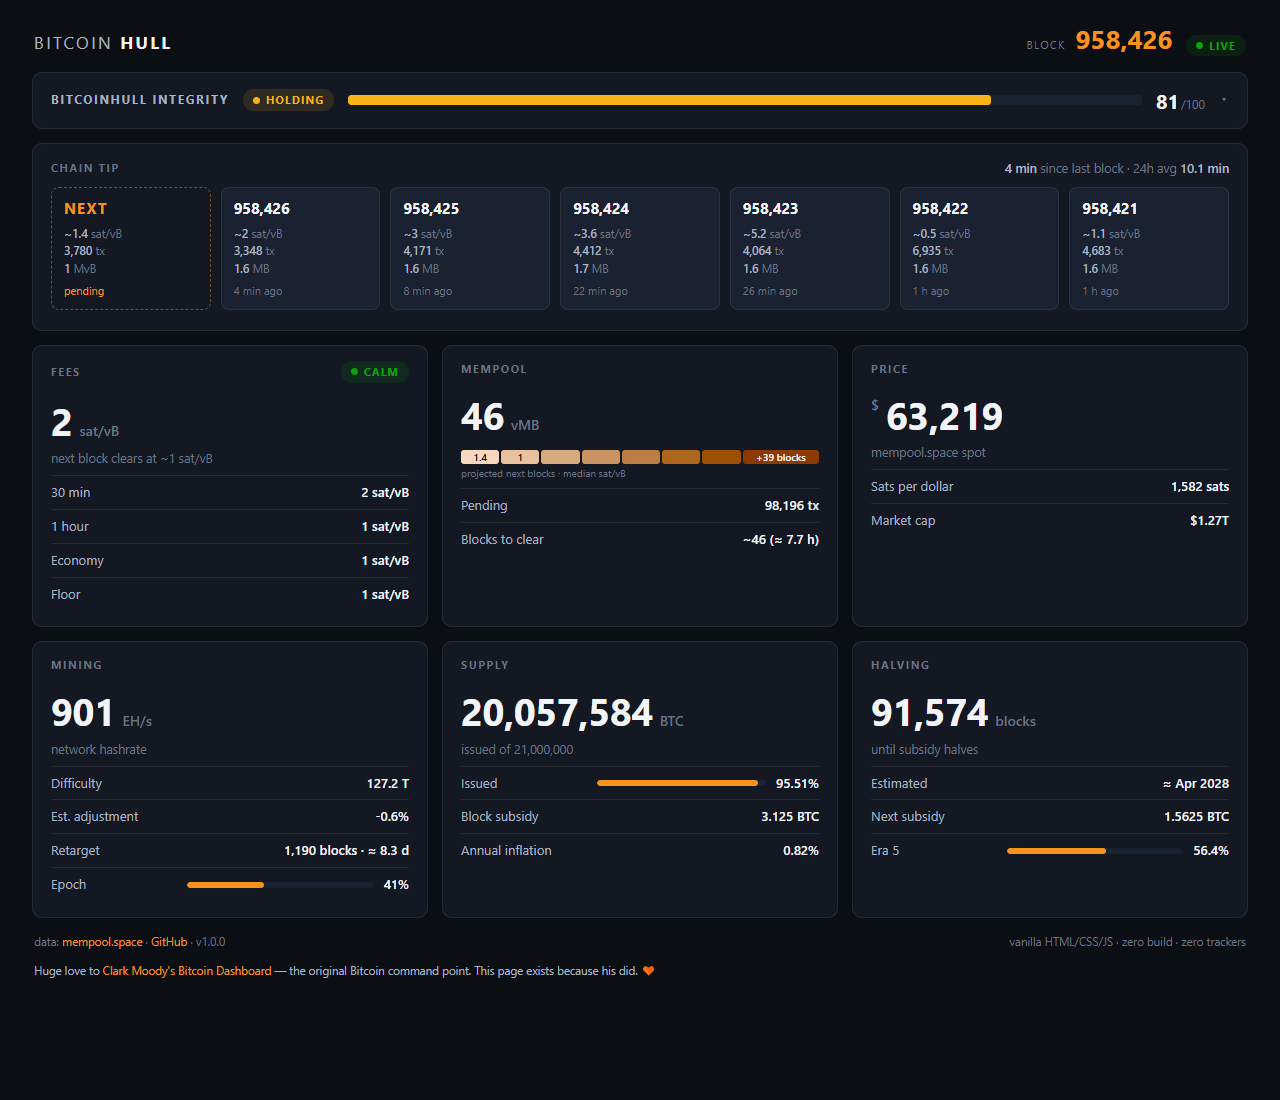
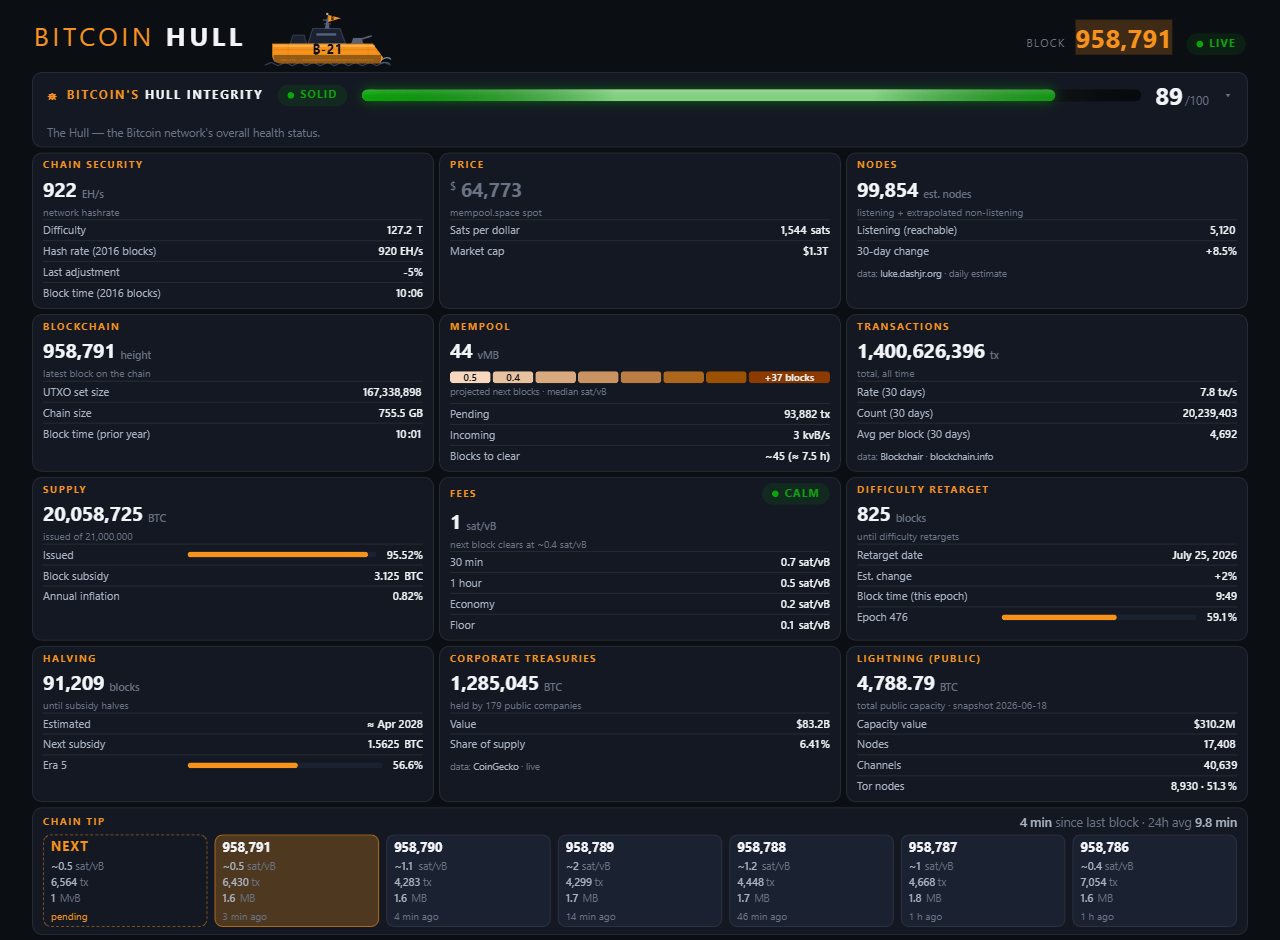
task-24: docs + version truth - five origins, fresh screenshot, v1.2.0
README data section rewritten: mempool.space primary + 4 audited aux origins
(blockchain.info charts, CoinGecko, Blockchair with the fragile-origin
caveat + silent chart fallback, luke.dashjr.org) + an honest "what cannot be
live" note (nodes = monthly bake, no CORS-open crawl exists; Lightning =
mempool.space dated snapshot) + brand line; version v1.0.0 -> v1.2.0 with
hardening-evidence link. CLAUDE.md blurb un-lies the one-data-source claim.
Footer: v1.2.0 release link + "+4" origins hint. Meta description matches
the current panel set. assets/hull.png re-shot at 1280x940 on the orange
build (in-page html2canvas-pro capture - the pane screenshot path is dead
today; result eyeballed faithful, closed-dropdown ghost labels suppressed
for the clean shot).

diff --git a/index.html b/index.html
@@ -4,7 +4,7 @@
 <meta charset="utf-8">
 <meta name="viewport" content="width=device-width, initial-scale=1">
 <title>Bitcoinhull</title>
-<meta name="description" content="Bitcoinhull — a live Bitcoin command point: chain, fees, mempool, price, mining, supply, halving, nodes.">
+<meta name="description" content="Bitcoin Hull — a live Bitcoin command point: price, fees, mempool, transactions, chain security, supply, halving, nodes, treasuries, Lightning, and a 0–100 Hull Integrity score. Open-source, no ads, no tracking.">
 <meta property="og:title" content="Bitcoin Hull — live Bitcoin network dashboard">
 <meta property="og:description" content="A live Bitcoin command point: price, fees, mempool, mining, supply, halving, nodes, Lightning. Open-source, no ads, no tracking.">
 <meta property="og:type" content="website">
@@ -322,7 +322,7 @@
 </main>
 
 <footer class="hull-footer">
-  <span>data: <a href="https://mempool.space" target="_blank" rel="noopener">mempool.space</a> · <a href="https://github.com/abysal32-arch/bitcoinhull" target="_blank" rel="noopener">GitHub</a> · v1.0.0</span>
+  <span>data: <a href="https://mempool.space" target="_blank" rel="noopener">mempool.space</a> +4 · <a href="https://github.com/abysal32-arch/bitcoinhull" target="_blank" rel="noopener">GitHub</a> · <a href="https://github.com/abysal32-arch/bitcoinhull/releases/tag/v1.2.0" target="_blank" rel="noopener">v1.2.0</a></span>
   <span>vanilla HTML/CSS/JS · zero build · zero trackers</span>
   <span class="foot-credit">Much love to <a href="https://bitcoin.clarkmoody.com/dashboard" target="_blank" rel="noopener">Clark Moody's Bitcoin Dashboard</a> — the original Bitcoin command point. This page exists because his did. 🧡</span>
 </footer>

diff --git a/README.md b/README.md
@@ -10,14 +10,29 @@ supply, the halving, and the **BitcoinHull Integrity** score (one honest
 ![the Hull](assets/hull.png)
 
 - **Stack:** vanilla HTML/CSS/JS, zero build step, zero dependencies, zero trackers.
-- **Data:** [mempool.space](https://mempool.space) public API (WebSocket push + REST fallback). One source, no keys.
+- **Data:** [mempool.space](https://mempool.space) is the primary source (WebSocket
+  push + REST fallback) plus four audited aux origins, all keyless and fetched
+  directly by your browser: [blockchain.info charts](https://api.blockchain.info)
+  (UTXO count, chain size, historical baselines),
+  [CoinGecko](https://www.coingecko.com) (corporate treasuries, hourly),
+  [Blockchair](https://blockchair.com) (live all-time tx count + chain size —
+  a fragile origin by their own docs; if it goes away the page silently falls
+  back to the daily charts), and [luke.dashjr.org](https://luke.dashjr.org)
+  (node-count estimate). Aux origins never gate the connection verdict.
+- **What can't be live (honestly):** the node count is a baked monthly estimate —
+  no CORS-open live node crawl exists anywhere today; Lightning stats are
+  mempool.space's dated snapshot (their pipeline runs behind — the snapshot date
+  is shown). Everything else on the page is live.
 - **Honesty rules:** every value is loading `—`, live, or visibly `STALE n MIN` —
   the page never shows a frozen number without telling you. The connection chip
   (`LIVE`/`POLLING`/`DEGRADED`/`DOWN`) tells the truth about the transport.
+- **Brand:** the warship "hull" logo — hull number ₿-21, genesis-block hash on
+  the armor belt — with the wordmark and panel chrome in Bitcoin orange (#f7931a).
 - **Deployment story:** open `index.html` in a browser. That's it. GitHub Pages
   serves this repo as-is.
 
 In the spirit of [Clark Moody's Bitcoin Dashboard](https://bitcoin.clarkmoody.com/dashboard) —
 fewer numbers, bigger type, honest states. Read-only: no wallet, no keys, ever.
 
-v1.0.0 · QA evidence in [`tasks/task-10-polish-ship/QA.md`](tasks/task-10-polish-ship/QA.md)
+v1.2.0 · QA evidence in [`tasks/task-10-polish-ship/QA.md`](tasks/task-10-polish-ship/QA.md) ·
+v1.2 hardening evidence in [`tasks/task-23-v12-hardening/WORKLOG.md`](tasks/task-23-v12-hardening/WORKLOG.md)

diff --git a/CLAUDE.md b/CLAUDE.md
@@ -8,8 +8,10 @@ this repo.
 **Bitcoinhull** — a live Bitcoin dashboard in the spirit of Clark Moody's
 dashboard, rebuilt as "the Hull" (a command point): sleeker, more readable,
 fewer useless stats, a few new ones. Static site, vanilla HTML/CSS/JS, zero
-build step, one data source (mempool.space). Read-only — no wallet, no keys,
-no funds, ever. Eventual home: **bitcoinhull.com** (Joe owns the domain;
+build step; mempool.space primary + 4 audited aux origins — blockchain.info
+charts, CoinGecko, Blockchair (fragile, silent chart fallback), Luke Dashjr's
+node file (see `tasks/_SHARED.md` §Data sources). Read-only — no wallet, no
+keys, no funds, ever. Live at **bitcoinhull.com** (Joe owns the domain;
 wired up in task 10).
 
 ## How to work (token-efficient boot)

diff --git a/tasks/README.md b/tasks/README.md
@@ -48,7 +48,7 @@ conventions, verification bar). Rules of the house live in `CLAUDE.md`.
 | 21 | v1.2 — integrity detail + full-page fit + bigger ship (Joe, 2026-07-18): dropdown shows now-vs-3yr values (weights hidden), UTXO metric redefined per-epoch LOWER-is-better (score 80→100 SOLID, deliberate), chain tip now on-screen at landing (938px @1280×940), ship 88×47, title grammar confirmed as-is | 19, 20 | ☑ DONE (2026-07-18; rows live: nodes 99,854 vs 81,366 · hash 904 vs 762 EH/s · tx 578,327 vs 485,901 · sats 1,548 vs 1,600 · UTXO -0% vs +0.63%/epoch; console clean; 375px clean) |
 | 22 | v1.2 — integrity curve v2 (Joe, 2026-07-18): at-average = 15/20, full 20 only at 1.5× the 3-yr avg, ≤half = 0 — no more free 100 at the saturation cliff | 21 | ☑ DONE (2026-07-18; live 86 SOLID = 17+17+17+15+20, was 100; console clean) |
 | 23 | v1.2 cleanup — hardening review + drill sweep over the whole one-day v1.2 wave (17-22): multi-agent review of `5df031b..HEAD`, full drill regression (kill-network, WS-kill, per-origin failures incl. Blockchair-430 fallback), Firefox + 1366×768 gap attempts | 16, 22 | ☑ DONE (2026-07-19; 5-finder review → 4 CONFIRMED fixed + empirically proven [HIGH compUtxo cross-anchor inflation → series-clock anchoring; false-STALE from covered fallbacks; tx in-progress-day clamp; stale-tag pill vs orange titles] + 1 REPORTED-to-Joe [nodes as-of removed by his task-19 spec — restore option in WORKLOG]; drill sweep ALL PASS [WS-kill, 3 per-origin kills silent, page-wide kill: 13/14 tagged + nodes exempt + title STALE + full recovery, reduced-motion, 1280×940 fold 935≤940 live, 1366×768 recorded, 375 clean]; Firefox still absent — gap stays; findings register in WORKLOG.md) |
-| 24 | v1.2 cleanup — docs + version truth: README/CLAUDE.md still say "one data source" + v1.0.0; five origins now; fresh screenshot; tag v1.2.0 after 23 | 23 | ☐ |
+| 24 | v1.2 cleanup — docs + version truth: README/CLAUDE.md still say "one data source" + v1.0.0; five origins now; fresh screenshot; tag v1.2.0 after 23 | 23 | ☑ DONE (2026-07-19; README: 5-origin data section + fragile-Blockchair caveat + honest "what can't be live" note + brand line + v1.2.0; CLAUDE.md blurb → primary+4 aux; footer → v1.2.0 release link (+4 origins hint); meta description → current panel set; assets/hull.png re-shot at 1280×940 on the orange build via in-page html2canvas-pro (pane screenshots dead today — capture eyeballed faithful, closed-dropdown ghost labels suppressed); `v1.2.0` tagged + GitHub release, notes = condensed 17–23 rows) |
 | 25 | v1.2 cleanup — responsive/mid-width polish: 1366×768 + 720-1100px band unaudited since the density passes; mobile type-floor decision; desktop fold bar must survive | 23 | ☐ |
 | 26 | v1.2 — branding +50% (Joe, 2026-07-18): wordmark 26px, ship 132px (viewBox-cropped to keep the header short), fold reclaimed via gaps/padding only — chain-tip bottom 935px @1280×940; mobile brand scale rule; integrity math independently audited same session (recompute = displayed 86 exactly) | 21, 22 | ☑ DONE (2026-07-18; console clean, 375px clean) |
 | 15 | v1.1 — Clark expansion (Joe, 2026-07-17): layout re-order, minor tier, missing majors, Hull Integrity recomposition | 10, 12 | ☑ DONE (2026-07-17; chain tip → page bottom (survived move live); strip renamed "Bitcoin's Hull Integrity" + visible note; INTEGRITY RECOMPOSED: 5 stats × 20 = current vs own 3-yr avg (nodes / hash / tx-day / sats-per-$ inverted / UTXO 1y-growth vs 3y-avg-growth), linear half-avg→avg curve, all feed-anchored (no wall-clock scoring), sum-of-rounded-rows, live score 80/100 HOLDING with UTXO honestly at 0/20 (set SHRANK 0.5% vs +30%/yr baseline); new majors: Difficulty retarget (1,178 blocks EXACT Clark match, date/est/epoch 476/bar), Chain security (90d 943 vs Clark 942.1, chain work 96.3 bits from full retarget history, rewrite days, trailing-365d revenue $15.3B — Clark semantics, never projected), Blockchain (UTXO hero, chain size 754.6 GB — blockchain.info excludes undo/indexes vs Clark's on-disk 860.3, baked OP_RETURN 0.4 GB, prior-yr block time 10:01 EXACT), Mining reworked (implied 2016-blk hashrate via work-over-window, last adj -5%, realized block times); minor tier: treasuries + Lightning (capacity 4,788.79 BTC / value / nodes / channels / Tor nodes 51.3% — Tor CAPACITY split has NO endpoint, gap named; snapshot date visible, mempool's LN stats run ~a month behind); new origins: blockchain.info charts CORS-verified (cors=true REQUIRED — 0 ACAO without) + 4 mempool.space endpoints; HULL.hist derivation module; 6-agent history research adversarially verified all 4 series in a real browser engine; garbage-BASE drill: DEGRADED + socket-live + aux-immune + recovery, no false staleness on 6h feeds; 375px no-h-scroll; console clean) |